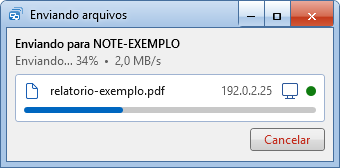
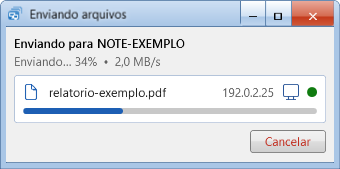
Página de apresentação com as telas da 1.6.151

Changed region(s): [[0.0, 0.0, 1.0, 1.0], [0.1471, 0.506, 0.5, 0.5952], [0.9118, 0.0595, 0.9412, 0.119]]

diff --git a/README.md b/README.md
@@ -49,11 +49,11 @@ O APonte liga os PCs Windows da mesma rede: o ponteiro passa da borda de uma tel
 ## Baixar / Download
 - [Instalador e portátil — versão mais nova / Installer and portable — latest version](https://github.com/Dorflex-DD/APonte/releases/latest)
 
-Windows 10/11 x64 · .NET 11 Desktop Runtime (ou o pacote "com-runtime", que já traz o .NET / *or the "com-runtime" package, which includes .NET*)
+Windows 10/11 x64 · .NET 11 Desktop Runtime x64. Dois pacotes por versão: instalador `.msi` e portátil `.zip`. / *Two packages per version: `.msi` installer and portable `.zip`.*
 
-## Novidades / What's new — v1.6.150
-- Temas como no Windows 7: Windows 7 Basic com 10 cores de janela ou Windows Clássico. / *Windows 7-style themes: Windows 7 Basic in 10 window colors or Windows Classic.*
-- Janelas, menus, botões e barras no desenho escolhido, na hora. / *Windows, menus, buttons and bars change right away.*
-- Sua mesa com as telas maiores; ao arrastar, ela se afasta para caber. / *Bigger screens on Your desk; it zooms out while you drag.*
+## Novidades / What's new — v1.6.151
+- Visual Windows 7 completo: títulos, links e ícones na cor da janela escolhida. / *Full Windows 7 look: titles, links and icons in the chosen window color.*
+- Configurações › Aparência: muda na hora e Cancelar desfaz; tamanho 90%, 100% ou 115%. / *Settings › Appearance: applies right away, Cancel undoes it; size 90%, 100% or 115%.*
+- Atualização e instalação mais firmes: sem o falso "Sem permissão" e sem parar no fim. / *Sturdier update and install: no false "No permission" and no stop at the end.*
 
 <sub>© 2024-2026 Fabio Fernando Giacomelli. Uso somente com autorização escrita do autor. / Use only with the author's written authorization.</sub>
